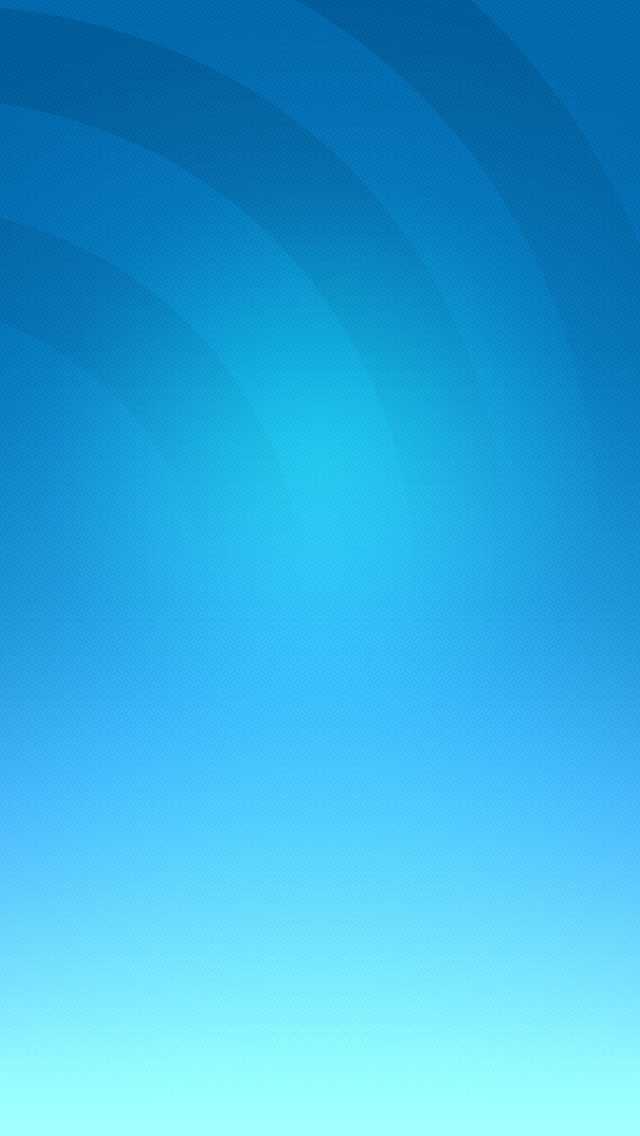
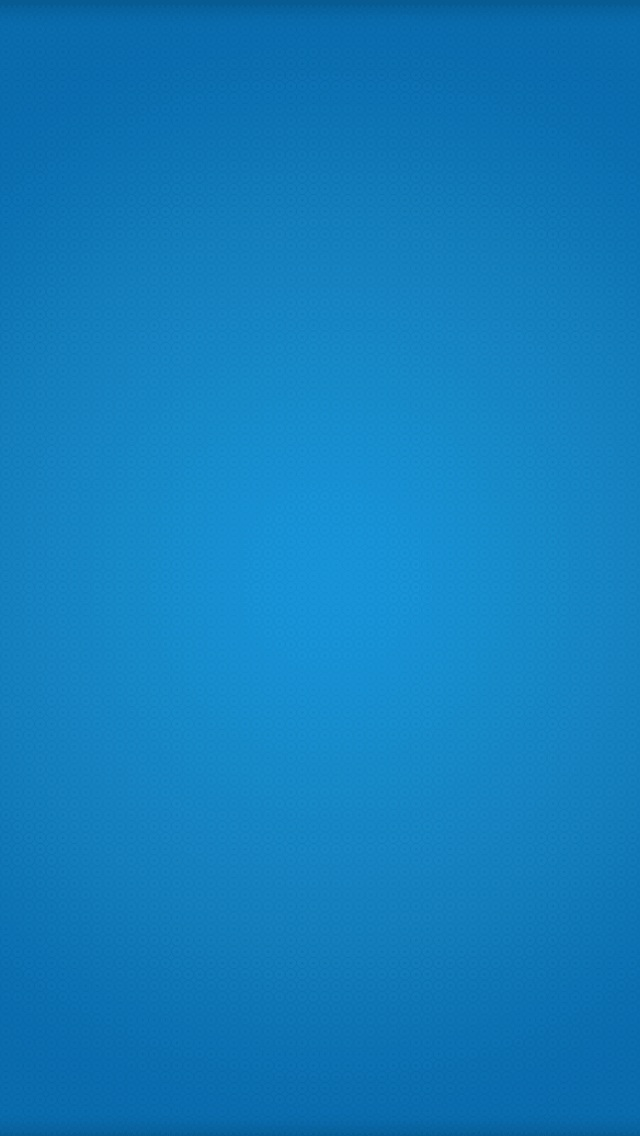
Replace background and elements w/ new design Fix login screen https://app.asana.com/0/10111646926483/17676656761433

diff --git a/AirBitz/Login/LoginViewController.m b/AirBitz/Login/LoginViewController.m
@@ -91,8 +91,6 @@ typedef enum eLoginMode
     #endif
 
 	self.errorMessageView.alpha = 0.0;
-
-    _swipeRightArrow.transform = CGAffineTransformRotate(_swipeRightArrow.transform, M_PI);
 }
 
 - (void)viewWillAppear:(BOOL)animated
@@ -306,9 +304,9 @@ typedef enum eLoginMode
      {
          CGRect frame = swipeArrow.frame;
          if (dir > 0)
-            frame.origin.x = originalFrame.origin.x + originalFrame.size.width;
+            frame.origin.x = originalFrame.origin.x + originalFrame.size.width * 0.5;
          else
-            frame.origin.x = originalFrame.origin.x - originalFrame.size.width;
+            frame.origin.x = originalFrame.origin.x - originalFrame.size.width * 0.5;
          swipeArrow.frame = frame;
          
      }
@@ -369,61 +367,7 @@ typedef enum eLoginMode
 
 - (void)keyboardWillShow:(NSNotification *)notification
 {
-    BOOL shrinkLogo = NO;
-    //Get KeyboardFrame (in Window coordinates)
-    if(_activeTextField)
-    {
-        NSDictionary *userInfo = [notification userInfo];
-        CGRect keyboardFrame = [[userInfo objectForKey:UIKeyboardFrameEndUserInfoKey] CGRectValue];
-        
-        CGRect ownFrame = [self.view.window convertRect:keyboardFrame toView:self.view];
-        
-        float remainingSpace = ownFrame.origin.y - [self StatusBarHeight];
-        
-        remainingSpace -= self.userEntryView.frame.size.height;
-        
-        float logoScaleFactor = remainingSpace / self.logoImage.frame.size.height;
-        if(logoScaleFactor >= LOGO_IMAGE_SHRINK_SCALE_FACTOR)
-        {
-            shrinkLogo = YES;
-        }
-        [UIView animateWithDuration:0.35
-                              delay: 0.0
-                            options: UIViewAnimationOptionCurveEaseInOut
-                         animations:^
-         {
-             CGRect frame = self.contentView.frame;
-             
-             _backButton.alpha = 0.0;
-             _swipeRightArrow.alpha = 0.0;
-             _swipeText.alpha = 0.0;
-             _titleText.alpha = 0.0;
-             
-             if(shrinkLogo)
-             {
-                 frame.origin.y = 22.0 + _originalLogoFrame.size.height * logoScaleFactor;
-                 frame.size.height = keyboardFrame.origin.y - frame.origin.y;
-                 self.contentView.frame = frame;
-                 
-                 self.logoImage.transform = CGAffineTransformMakeScale(logoScaleFactor, logoScaleFactor);
-                 frame = self.logoImage.frame;
-                 frame.origin.y = 22.0;
-                 self.logoImage.frame = frame;
-            }
-            else
-            {
-                frame.origin.y = [self StatusBarHeight];
-                frame.size.height = keyboardFrame.origin.y - frame.origin.y;
-                self.contentView.frame = frame;
-
-                self.logoImage.alpha = 0.0;
-            }
-         }
-                         completion:^(BOOL finished)
-         {
-             
-         }];
-    }
+    // Logic to move login page elements above keyboard removed. -Allan Wright
 }
 
 - (void)keyboardWillHide:(NSNotification *)notification
